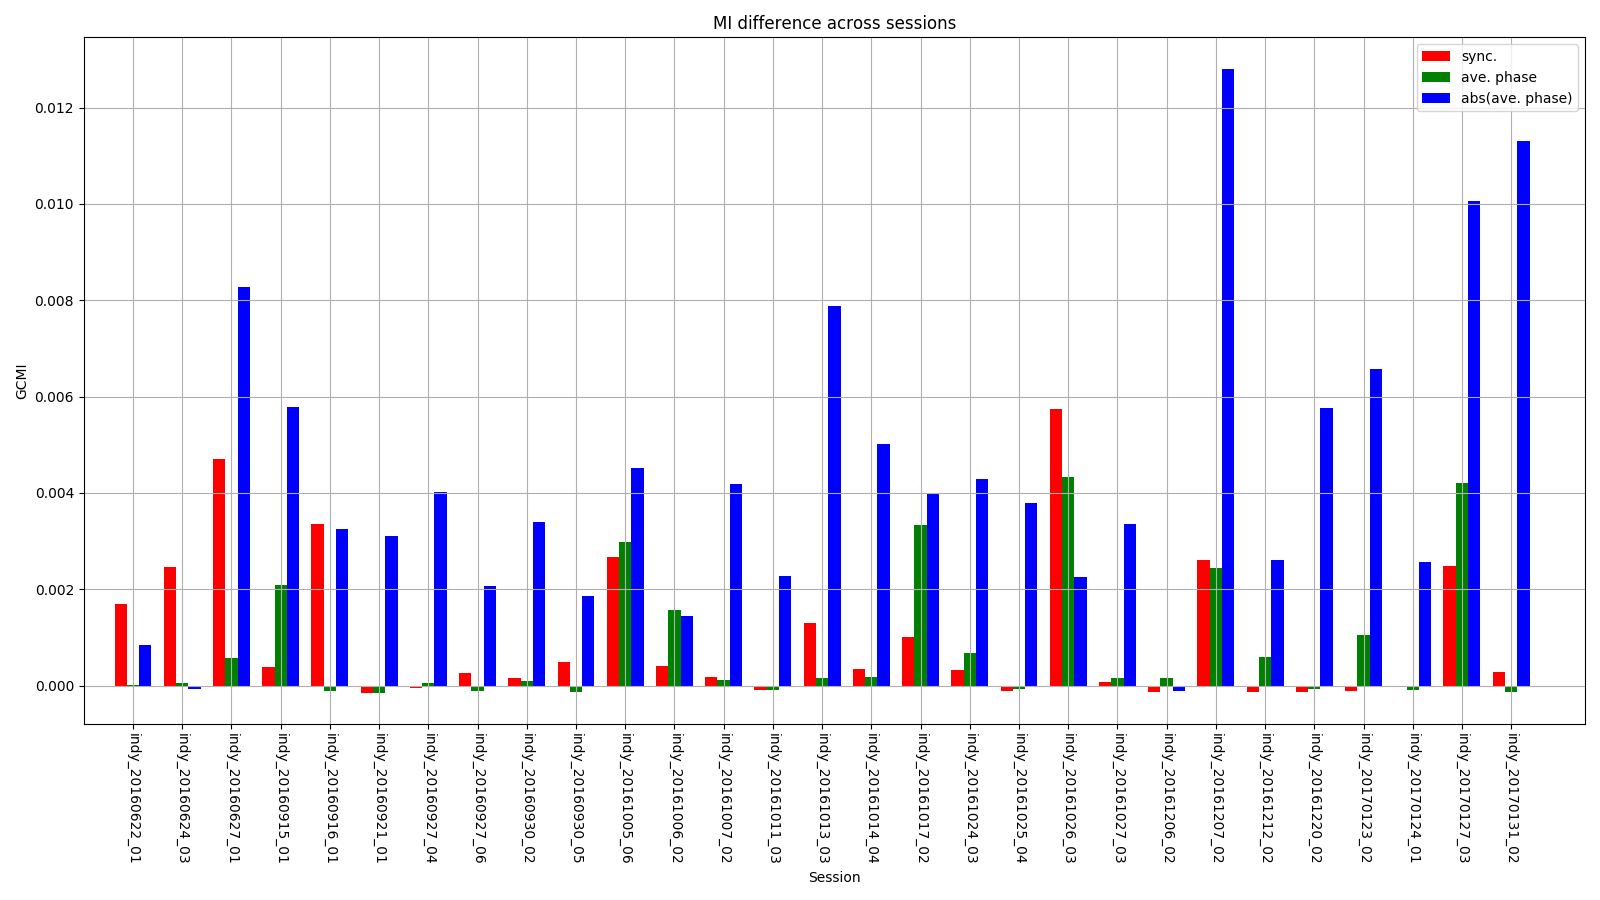
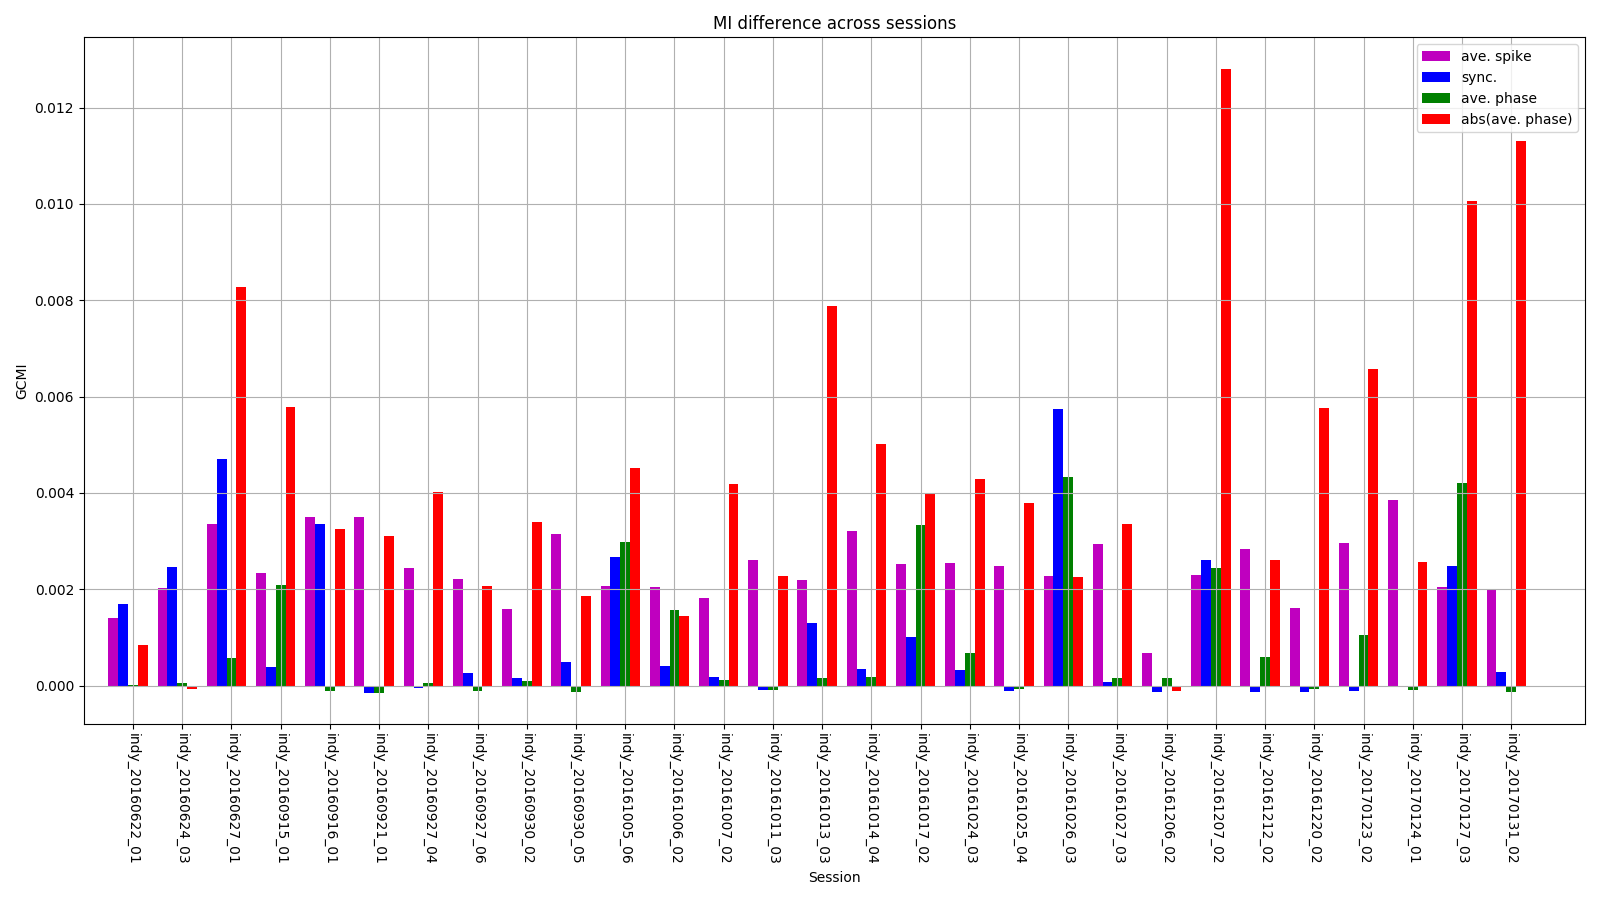
add ave spike

Changed region(s): [[0.0625, 0.0622, 1.0, 0.7778]]

diff --git a/Python_code/Pytorch/Phase_Clustering/calculated_mi.py b/Python_code/Pytorch/Phase_Clustering/calculated_mi.py
@@ -35,7 +35,7 @@ import data_processing.load_mat_file as load_mat_file
 my_parameters=my_parameters.my_parameters()
 mat_file_processing=load_mat_file.mat_file_processing()
 
-
+width_two=0.2 # for bar plot
 
 FILE_PATH = '../../Signal_Processing/Inter-Channel_Clustering_Preprocess/Tables/'
 ALL_List_FILE = os.listdir(FILE_PATH)
@@ -49,6 +49,7 @@ channel_results_accross_sessions=np.zeros((1,96), dtype=float)
 abs_itpc_angle_all_sessions=[]
 itpc_sync_all_sessions=[]
 itpc_angle_all_sessions=[]
+average_spike_all_sessions=[]
 for session_k in range(len(session_file_list)):
         
     session_name=str(session_file_list[session_k])
@@ -384,12 +385,14 @@ for session_k in range(len(session_file_list)):
     #print('abs(training_itpc_angle) vs training_y = ', yee, '\n')
 
     mi_of_all_channels_before_PoF=[]
-    yee=0
+    baba=0
     for i in range(96):
         # yee=yee+gcmi.gcmi_cc(  new_training_x[i,:] , training_y )
         yee=gcmi.gcmi_cc(  new_training_x_before_PoF[i,:] , training_y ) # TODO
+        baba=baba+yee
         mi_of_all_channels_before_PoF.append(yee)
     # print('average new_training_x vs training_y = ', yee/96, '\n')
+    average_spike_all_sessions.append(baba/96)
     # print('mi_of_all_channels before ', mi_of_all_channels_before_PoF)
 
     mi_of_all_channels_after_PoF=[]
@@ -410,8 +413,8 @@ for session_k in range(len(session_file_list)):
     plt.figure(figsize=(16,3))
     # ax = fig.add_axes([0,0,1,1])
     ind = np.arange(1,96+1)
-    # ax.bar( ind-0.25,  mi_of_all_channels_before_PoF, color='b', width = 0.25)
-    # ax.bar( ind+0.25, mi_of_all_channels_after_PoF, color='g', width = 0.25 )
+    # ax.bar( ind-width_two,  mi_of_all_channels_before_PoF, color='b', width = width_two)
+    # ax.bar( ind+width_two, mi_of_all_channels_after_PoF, color='g', width = width_two )
     plt.bar(ind, mi_of_all_channels_diff, width=0.5, color='r')
     plt.ylabel('GCMI difference')
     plt.xlabel('Channel')
@@ -421,17 +424,18 @@ for session_k in range(len(session_file_list)):
     plt.grid(True)
     plt.title(session_name)
     plt.tight_layout()
-    plt.savefig(img_path+'/'+session_name+'_bar_plot.png')
+    # plt.savefig(img_path+'/'+session_name+'_bar_plot.png')
     plt.close()
     #yee=gcmi.gcmi_cc(  np.multiply( abs(training_itpc_angle) ,  training_itpc_abs), training_y )
     # print('abs(training_itpc_angle)*training_itpc_abs vs training_y = ', yee, '\n')
 
 
+
 plt.figure(figsize=(16,3))
 # ax = fig.add_axes([0,0,1,1])
 ind = np.arange(1,96+1)
-# ax.bar( ind-0.25,  mi_of_all_channels_before_PoF, color='b', width = 0.25)
-# ax.bar( ind+0.25, mi_of_all_channels_after_PoF, color='g', width = 0.25 )
+# ax.bar( ind-width_two,  mi_of_all_channels_before_PoF, color='b', width = width_two)
+# ax.bar( ind+width_two, mi_of_all_channels_after_PoF, color='g', width = width_two )
 plt.bar(ind, list(channel_results_accross_sessions[0,:]), width=0.5, color='r')
 plt.ylabel('GCMI accumulation')
 plt.xlabel('Channel')
@@ -450,10 +454,11 @@ plt.close()
 plt.figure(figsize=(16,9))
 # ax = fig.add_axes([0,0,1,1])
 ind = np.arange(1,len(itpc_sync_all_sessions)+1)
-plt.bar(ind-0.25, itpc_sync_all_sessions, width=0.25, color='r')
-plt.bar(ind, itpc_angle_all_sessions, width=0.25, color='g')
-plt.bar(ind+0.25, abs_itpc_angle_all_sessions, width=0.25, color='b')
-plt.legend(['sync.', 'ave. phase', 'abs(ave. phase)'])
+plt.bar(ind-width_two-width_two, average_spike_all_sessions, width=width_two, color='m')
+plt.bar(ind-width_two, itpc_sync_all_sessions, width=width_two, color='b')
+plt.bar(ind, itpc_angle_all_sessions, width=width_two, color='g')
+plt.bar(ind+width_two, abs_itpc_angle_all_sessions, width=width_two, color='r')
+plt.legend(['ave. spike', 'sync.', 'ave. phase', 'abs(ave. phase)'])
 plt.ylabel('GCMI')
 plt.xlabel('Session')
 plt.xlim([0,len(itpc_sync_all_sessions)+1+0.5])
